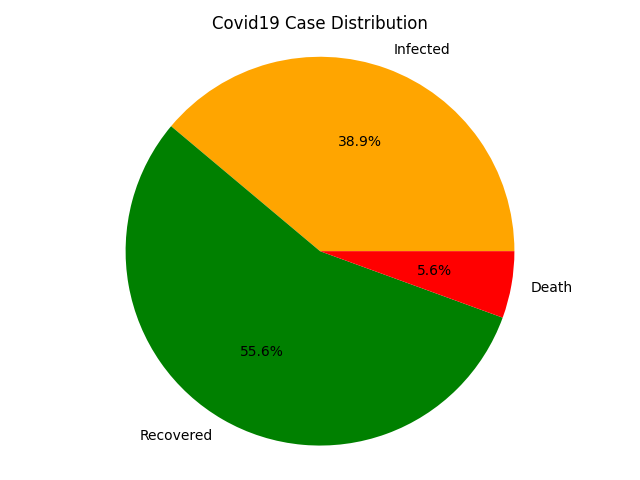
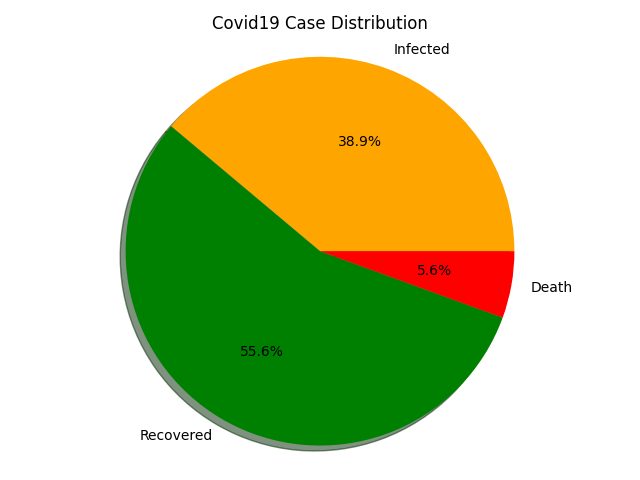
added

diff --git a/Matplotlib/Weather.py b/Matplotlib/Weather.py
@@ -1,0 +1,16 @@
+import matplotlib.pyplot as plt
+
+days = ['Day 1', 'Day 2', 'Day 3', 'Day 4', 'Day 5',
+        'Day 6', 'Day 7', 'Day 8', 'Day 9', 'Day 10']
+temperature = [28, 30, 33, 31, 29, 32, 34, 33, 31, 30]
+
+plt.plot(days, temperature, color='orange', linewidth=2, label='Temperature (°C)')
+plt.fill_between(days, temperature, color='orange', alpha=0.3)
+
+plt.title('10-Day Temperature Trend')
+plt.xlabel('Day')
+plt.ylabel('Temperature (°C)')
+plt.grid(True, linestyle='--', alpha=0.6)
+plt.legend()
+plt.tight_layout()
+plt.show()

diff --git a/Matplotlib/Covid-Pie-Chart.py b/Matplotlib/Covid-Pie-Chart.py
@@ -5,7 +5,7 @@ labels = ['Infected', 'Recovered', 'Death']
 cases = [3500, 5000, 500]
 colors = ['orange', 'green', 'red']
 
-plt.pie(cases, labels=labels , colors=colors, autopct='%.1f%%')
+plt.pie(cases, labels=labels , colors=colors, autopct='%.1f%%', shadow=True)
 plt.title('Covid19 Case Distribution')
 plt.axis('equal')
 plt.tight_layout()
